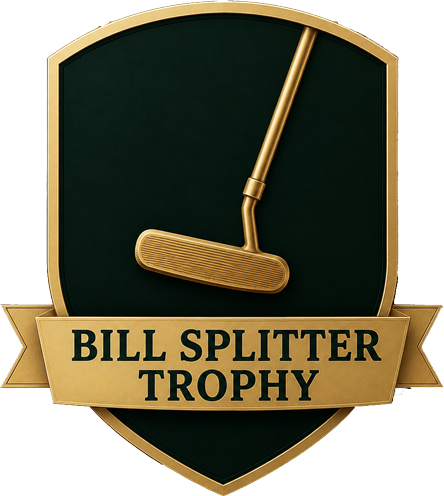
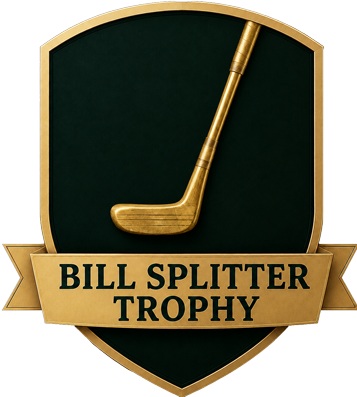
Update home nav and trophy assets

diff --git a/app.js b/app.js
@@ -840,7 +840,7 @@ const navItems = [
   ["tours", "Tours", "badge"],
   ["this-tour", "This Tour", "calendar"],
   ["stats", "Stats", "chart"],
-  ["more", "More", "more"],
+  ["profiles", "Tourists", "people"],
 ];
 
 let state = {
@@ -900,7 +900,7 @@ let state = {
   tourPageError: "",
   tourPageEditingKey: null,
   tourPageDrafts: {},
-  moreMenuOpen: false,
+  homeMenuOpen: false,
   restoredScrollTop: 0,
   updateAvailable: false,
 };
@@ -917,7 +917,8 @@ function icon(name) {
     chart: '<path d="M5 19V9M12 19V5M19 19v-8"/>',
     pin: '<path d="M12 21s7-5.3 7-11a7 7 0 0 0-14 0c0 5.7 7 11 7 11Z"/><circle cx="12" cy="10" r="2.4"/>',
     user: '<circle cx="12" cy="8" r="4"/><path d="M4 21c1.5-4 14.5-4 16 0"/>',
-    menu: '<path d="M4 7h16M4 12h16M4 17h16"/>',
+    people: '<circle cx="9" cy="8" r="3.5"/><path d="M2.5 20c1.2-3.5 11.8-3.5 13 0"/><circle cx="17" cy="9" r="2.8"/><path d="M14.5 19c1.1-2.1 5.3-2.1 6.4 0"/>',
+    menu: '<path d="M4 6h16M4 12h16M4 18h16"/>',
     bell: '<path d="M18 9a6 6 0 0 0-12 0c0 7-3 7-3 9h18c0-2-3-2-3-9"/><path d="M10 21h4"/>',
     back: '<path d="m15 18-6-6 6-6"/>',
     chevron: '<path d="m9 18 6-6-6-6"/>',
@@ -932,6 +933,7 @@ function icon(name) {
     suitcase: '<path d="M10 6V5a2 2 0 0 1 2-2h0a2 2 0 0 1 2 2v1"/><rect x="5" y="6" width="14" height="15" rx="2"/><path d="M9 6v15M15 6v15"/>',
     swap: '<path d="M7 7h11l-3-3M17 17H6l3 3"/>',
     refresh: '<path d="M21 12a9 9 0 0 1-15.4 6.4L3 16"/><path d="M3 21v-5h5"/><path d="M3 12A9 9 0 0 1 18.4 5.6L21 8"/><path d="M21 3v5h-5"/>',
+    logout: '<path d="M10 17l5-5-5-5"/><path d="M15 12H3"/><path d="M14 4h4a3 3 0 0 1 3 3v10a3 3 0 0 1-3 3h-4"/>',
   };
   return `<svg aria-hidden="true" viewBox="0 0 24 24" fill="none" stroke="currentColor" stroke-width="1.8" stroke-linecap="round" stroke-linejoin="round">${icons[name] || icons.home}</svg>`;
 }
@@ -958,6 +960,17 @@ function UpdateAvailableBanner() {
 
 function HomeRefreshButton() {
   return `<button class="home-refresh-btn" data-action="refresh-app-update" type="button" aria-label="Refresh app">${icon("refresh")}</button>`;
+}
+
+function HomeMenuButton() {
+  return `
+    <button class="home-menu-btn" data-action="toggle-home-menu" type="button" aria-label="Menu">${icon("menu")}</button>
+    ${state.homeMenuOpen ? `
+      <div class="home-menu">
+        <button data-action="logout" type="button">${icon("logout")}<span>Log Out</span></button>
+      </div>
+    ` : ""}
+  `;
 }
 
 function Header(title = "", detail = false) {
@@ -1071,7 +1084,7 @@ function BillSplitterScorecard(crocombePoints = 0, fosterPoints = 0) {
           <b>${formatTeamPoints(crocombePoints)}</b>
         </div>
         <div class="tour-wins-trophy" aria-label="Bill Splitter Trophy">
-          <img src="/assets/images/trophies/bill-splitter-trophy-lite.png" alt="" aria-hidden="true" />
+          <img src="/assets/images/trophies/bill-splitter-trophy-lite.png?v=169" alt="" aria-hidden="true" />
         </div>
         <div class="tour-wins-team foz">
           <strong>Team Foster</strong>
@@ -1159,7 +1172,7 @@ function HandicapGraph(history = []) {
         ${points.map((point) => `
           <g>
             <circle cx="${point.x.toFixed(1)}" cy="${point.y.toFixed(1)}" r="3.2" />
-            <text x="${point.x.toFixed(1)}" y="${height - 3}" text-anchor="middle">${escapeHtml(String(point.year).slice(-2))}</text>
+            <text x="${point.x.toFixed(1)}" y="${height - 3}" text-anchor="middle">${escapeHtml(`'${String(point.year).slice(-2)}`)}</text>
           </g>
         `).join("")}
       </svg>
@@ -1206,7 +1219,7 @@ function Home() {
   if (!hasLoadedSupabase) {
     return `
       ${Header()}
-      <section class="home-logo">${HomeRefreshButton()}${Logo()}<p>Welcome back, Nudger 👋</p></section>
+      <section class="home-logo">${HomeMenuButton()}${HomeRefreshButton()}${Logo()}<p>Welcome back, Nudger 👋</p></section>
       ${Card(`
         <span class="eyebrow">Next Tour</span>
         <div class="loading-card">
@@ -1228,6 +1241,7 @@ function Home() {
   return `
     ${Header()}
     <section class="home-logo">
+      ${HomeMenuButton()}
       ${HomeRefreshButton()}
       ${Logo()}
       <p>Welcome back, Nudger 👋</p>
@@ -3094,44 +3108,15 @@ function Profiles() {
   `;
 }
 
-function Media() {
-  return `
-    ${PageHero("Pictures & Media")}
-    <div class="page-body">
-      ${Card(`
-        <div class="media-video">
-          <iframe
-            src="https://player.vimeo.com/video/1109696115?badge=0&amp;autopause=0&amp;player_id=0&amp;app_id=58479"
-            frameborder="0"
-            allow="autoplay; fullscreen; picture-in-picture; clipboard-write; encrypted-media; web-share"
-            referrerpolicy="strict-origin-when-cross-origin"
-            title="Nudgers 2024 Highlights - Le Touquet"
-            allowfullscreen
-          ></iframe>
-        </div>
-      `, "media-card")}
-    </div>
-  `;
-}
-
 function BottomNav() {
   return `
     <nav class="bottom-nav">
       ${navItems.map(([id, label, iconName]) => `
-        <button class="${id === "more" ? (["profiles", "media"].includes(state.tab) || state.moreMenuOpen ? "active" : "") : state.tab === id ? "active" : ""}" data-action="${id === "more" ? "toggle-more" : "tab"}" data-tab="${id}">
+        <button class="${state.tab === id ? "active" : ""}" data-action="tab" data-tab="${id}">
           ${icon(iconName)}
           <span>${label}</span>
         </button>
       `).join("")}
-      ${
-        state.moreMenuOpen
-          ? `<div class="more-menu">
-              <button data-action="more-option" data-tab="media">Pictures & Media</button>
-              <button data-action="more-option" data-tab="profiles">Tourists</button>
-              <button data-action="logout">Logout</button>
-            </div>`
-          : ""
-      }
     </nav>
   `;
 }
@@ -3272,7 +3257,6 @@ function render() {
     "this-tour": ThisTour,
     stats: Stats,
     profiles: Profiles,
-    media: Media,
   };
   if (!screens[state.tab]) state.tab = "home";
   const screenContent = state.tab === "this-tour" ? ThisTour() : state.detailTour ? TourDetail() : screens[state.tab]();
@@ -3299,8 +3283,21 @@ function render() {
 }
 
 app.addEventListener("click", (event) => {
+  const clickedHomeMenu = event.target.closest(".home-menu, .home-menu-btn");
+  let closedHomeMenu = false;
+  if (state.homeMenuOpen && !clickedHomeMenu) {
+    state.homeMenuOpen = false;
+    closedHomeMenu = true;
+  }
+
   const target = event.target.closest("[data-action]");
-  if (!target) return;
+  if (!target) {
+    if (closedHomeMenu) {
+      render();
+      persistRoute();
+    }
+    return;
+  }
   const action = target.dataset.action;
   if (action === "tab") {
     state.restoredScrollTop = 0;
@@ -3311,22 +3308,21 @@ app.addEventListener("click", (event) => {
       state.thisTourOverviewPanel = "";
       loadTourProfiles(tours[0]?.supabaseId);
     }
-    if (state.tab !== "profiles") state.touristProfileOpen = false;
+    if (state.tab === "profiles") {
+      state.touristProfileOpen = false;
+      state.touristProfileReturn = null;
+    } else {
+      state.touristProfileOpen = false;
+    }
     state.openHeadToHeadPicker = null;
     state.openIndividualPicker = false;
-    state.moreMenuOpen = false;
+    state.homeMenuOpen = false;
   }
-  if (action === "toggle-more") {
-    state.moreMenuOpen = !state.moreMenuOpen;
-  }
-  if (action === "more-option") {
-    state.restoredScrollTop = 0;
-    state.tab = target.dataset.tab;
-    state.detailTour = null;
-    state.touristProfileOpen = false;
-    state.moreMenuOpen = false;
-    state.openHeadToHeadPicker = null;
-    state.openIndividualPicker = false;
+  if (action === "toggle-home-menu") {
+    state.homeMenuOpen = !state.homeMenuOpen;
+    render();
+    persistRoute();
+    return;
   }
   if (action === "logout") {
     fetch("/api/auth/logout", { method: "POST" }).finally(() => {
@@ -3462,7 +3458,7 @@ app.addEventListener("click", (event) => {
       };
       state.tab = "profiles";
       state.detailTour = null;
-      state.moreMenuOpen = false;
+      state.homeMenuOpen = false;
     } else {
       state.touristProfileReturn = null;
     }

diff --git a/styles.css b/styles.css
@@ -151,30 +151,73 @@ svg {
   text-transform: uppercase;
 }
 
-.home-refresh-btn {
+.home-refresh-btn,
+.home-menu-btn {
   position: absolute;
   top: 2px;
-  right: 4px;
   display: grid;
-  width: 40px;
-  height: 40px;
+  width: 36px;
+  height: 36px;
   place-items: center;
-  background:
-    linear-gradient(145deg, rgba(208, 173, 103, .18), rgba(248, 242, 223, .04)),
-    rgba(8, 37, 27, .86);
-  border: 1px solid rgba(208, 173, 103, .54);
-  border-radius: 999px;
-  box-shadow: 0 10px 22px rgba(1, 9, 7, .34), inset 0 1px 0 rgba(248, 242, 223, .08);
+  background: transparent;
+  border: 0;
+  border-radius: 0;
+  box-shadow: none;
   color: var(--gold-soft);
 }
 
-.home-refresh-btn svg {
+.home-refresh-btn {
+  right: 4px;
+}
+
+.home-menu-btn {
+  left: 4px;
+}
+
+.home-refresh-btn svg,
+.home-menu-btn svg {
   width: 20px;
   height: 20px;
 }
 
-.home-refresh-btn:active {
+.home-refresh-btn:active,
+.home-menu-btn:active {
   transform: translateY(1px);
+}
+
+.home-menu {
+  position: absolute;
+  top: 42px;
+  left: 4px;
+  z-index: 35;
+  min-width: 122px;
+  padding: 6px;
+  background:
+    linear-gradient(145deg, rgba(208, 173, 103, .12), rgba(248, 242, 223, .04)),
+    rgba(8, 37, 27, .96);
+  border: 1px solid rgba(208, 173, 103, .38);
+  border-radius: 10px;
+  box-shadow: 0 14px 26px rgba(1, 9, 7, .42);
+}
+
+.home-menu button {
+  display: flex;
+  align-items: center;
+  gap: 8px;
+  width: 100%;
+  padding: 9px 10px;
+  background: transparent;
+  color: var(--cream);
+  font-size: 12px;
+  font-weight: 800;
+  text-align: left;
+  text-transform: none;
+}
+
+.home-menu button svg {
+  width: 17px;
+  height: 17px;
+  color: var(--gold-soft);
 }
 
 .home-logo p {
@@ -3065,14 +3108,14 @@ svg {
 .profile-detail-stats b {
   display: block;
   color: var(--cream);
-  font-size: 34px;
+  font-size: 31px;
   font-weight: 800;
   line-height: 1;
   margin: 0 0 6px;
 }
 
 .profile-detail-stats b {
-  font-size: 28px;
+  font-size: 26px;
 }
 
 .player-stats small,

diff --git a/sw.js b/sw.js
@@ -1,4 +1,4 @@
-const CACHE_NAME = "cultured-nudgers-v161";
+const CACHE_NAME = "cultured-nudgers-v170";
 const ASSETS = [
   "./index.html",
   "./login.html",